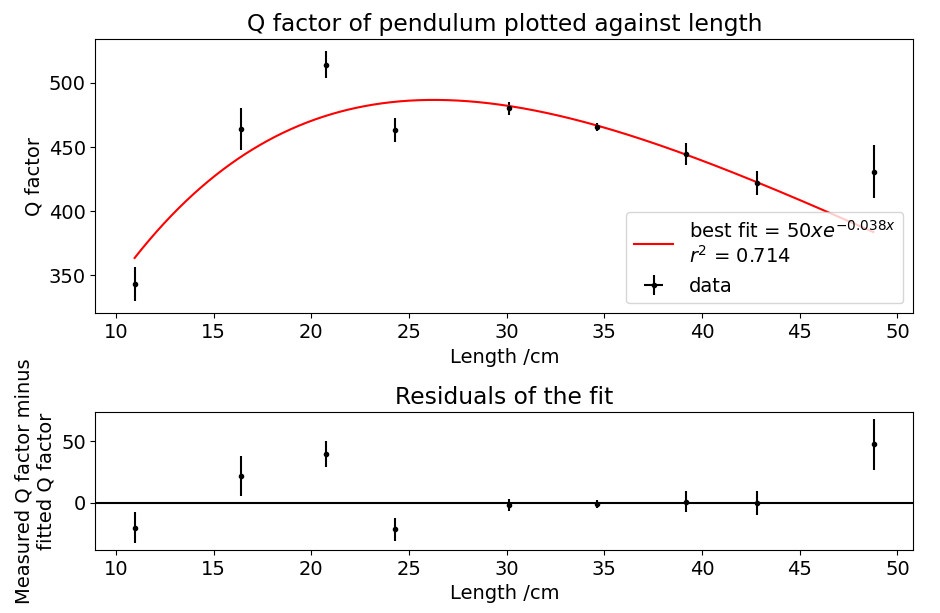
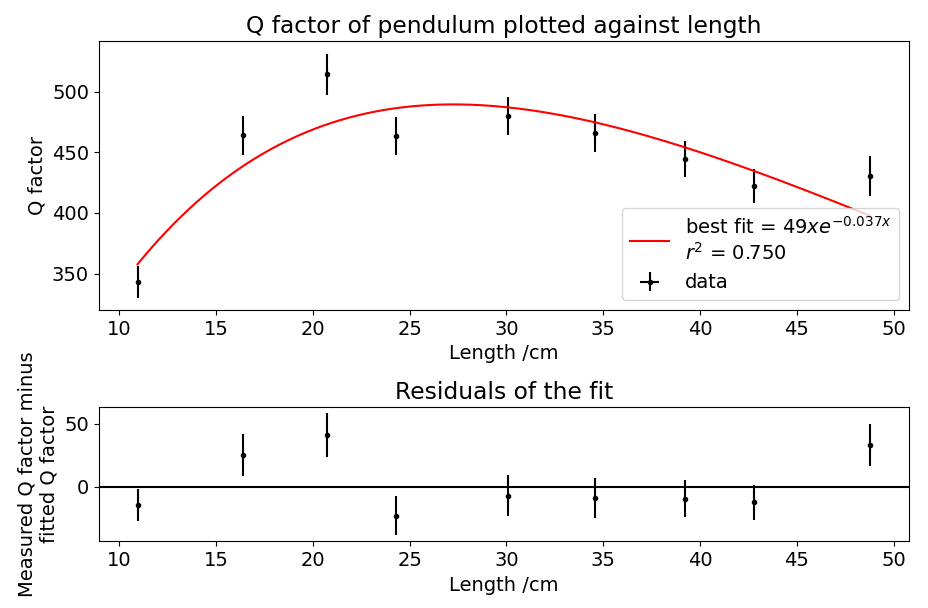
finished up to 4.1

diff --git a/report/lab.tex b/report/lab.tex
@@ -111,7 +111,7 @@ This, it can be concluded that the pendulum period depends on amplitude.}
 
 \subsection{Experimental Setup}
 {\color{blue}
-A single-stringed pendulum tends to spin in an elliptical fashion when released. Not only does this violate the way a pendulum was defined in Section \ref{Background}, elliptical orbits may also lead to inaccurate measurements. To correct for this,} a degree of freedom was removed from the pendulum by threading a string through the stainless steel quick link and fastening the 2 strings in 2 locations to form the shape of a ``V''. The pendulum would then swing back and forth in the plane perpendicular to the ``V'' {\color{blue} where the pivot lies directly above the string. Lego pieces were used to prevent the risk of the string slipping under the tape and a protractor was taped directly above the weight. Extra caution was taken to ensure that the center of the protractor aligned with the 2 intersection points between the string and the legos. Shown below is a side and front view of the new setup:}
+A single-stringed pendulum tends to spin in an elliptical fashion when released. Not only does this violate the way a pendulum was defined in Section \ref{Background}, elliptical orbits may also lead to inaccurate measurements. To correct for this,} a degree of freedom was removed from the pendulum by threading a string through the stainless steel quick link and fastening the 2 strings in 2 locations to form the shape of a ``V''. The pendulum would then swing back and forth in the plane perpendicular to the ``V'' {\color{blue} where the pivot lies directly above the string. Lego pieces were used to prevent the risk of the string slipping under the tape and a protractor was taped directly above the weight. Extra caution was taken to ensure that the center of the protractor aligned with the 2 intersection points between the string and the legos, which lined up with the camera lens. Shown below is a side and front view of the new setup:}
 \begin{figure}[!hptb]
     \centering
     \begin{subfigure}{0.49\textwidth}
@@ -123,37 +123,15 @@ A single-stringed pendulum tends to spin in an elliptical fashion when released.
         \centering
         \includegraphics[width=\textwidth]{../figures/exp_setup3_front.png}
     \end{subfigure}
-    \caption{\centering Improved version of the pendulum used to determine Q factor. Note: this is actually version 3 of the pendulum. Issues that arose with version 2 will be discussed later in this section.}
+    \caption{\centering Improved version of the pendulum used to determine Q factor. Note: this is actually version 3 of the pendulum. Issues that arose with version 2 will be discussed later in this section. Version 2 was also double-stringed}
     \label{fig:figure 3}
 \end{figure}
 \newpage
 
 \subsection{Data}
 {\color{blue}
-is still referring to old lab data
-- version 2 of the pendulum was released from a large angle, and it was deconstructed a long time ago, no access to it.
-- version 3 of the pendulum (figure x) was used for
-- mention uncertainty of angle due to tracker, and include an image
-- the first version of this graph was generatred with an initial release angle of 60 degrees, but that doens't work, as shown earlier that the period depends on the release angle, which also implies that the period is not constant as the pendulum dampens, which creates a contradiction with Eq x.
-
-- after observing results of lab 1,  the new and improved version is generated with a initial release angle of about 20 degrees, makes sure that the period stays constant, that was the theoretical model holds
-
-- uncertainy now is 1/30 where 30 represents the frame rate of the videos.
-
-- the length of the video was divided into around 15-20 equal intervals, and a few frames were advanced or retraced using tracker to determine the closes "peak"  - this is how I recorded the data
-
-also mention the 20 second increments that were used because the full video was recorded (this was mentioned in section 6 or smth, move that here)
-
-- how I used tracker to determine a maximum and minimum angle
-
-
-
+The Q factor can be determined by plotting the amplitude-time graph, as shown below:
 }
-
-
-Due to the double-string contraption, the camera must be positioned in a place where the chance of capturing both strings in the same frame is minimized.
-
-A protractor was not included in the experimental setup this time because Tracker \cite{tracker} was used to measure the angles. First, data was collected such that the maximum amplitude of the pendulum could be plotted against time:
 
 \begin{figure}[!hptb]
     \centering
@@ -162,14 +140,36 @@ A protractor was not included in the experimental setup this time because Tracke
     \label{fig:figure 4}
 \end{figure}
 
-The uncertainty for time was taken to be $1/f$ where $f$ represents the frame rate of the video imported into Tracker, namely $120\,\text{fps}$. The uncertainty for angle was calculated this time for each individual maximum by taking half the range of the sweeping area that the string made in Tracker due to video blur.
+{\color{blue}
+The pendulum was released from an angle of approximately $20^\circ$ to ensure the period stays constant as it is oscillating. The first version of this graph was generated with an initial release angle of 60 degrees, which resulted the period to decrease with time, producing an inaccurate Q factor. This pendulum (version 2) has since been deconstructed.
 
+To calculate the amplitudes, the length of the video was first divided into 15\,-\,20 equal intervals. For every interval, a few frames were advanced or reversed until the closest maximum amplitude could be determined.
+
+\newpage
+
+The uncertainty for each angle was measured in Tracker \cite{tracker} at the frame where $\theta$ reached a maximum. Due the double-stringed setup, two strings will appear in the frame. The angle was taken to be the midpoint of the region that the strings formed and the uncertainty half of the total angle of the region. An image of angle calculation is shown below:
+
+\begin{figure}[!hptb]
+    \centering
+    \includegraphics[width=\textwidth]{../figures/tracker.png}
+    \caption{\centering Angle determination in Tracker. The red and blue diamonds represents the upper and lower bound of the angle, represented in xy coordinates relative to the pink axes, which can be converted to angles.}
+    \label{fig:figure5}
+\end{figure}
+}
+
+The uncertainty for time was taken to be 1/30 where 30 represents the frame rate (fps) of the video.
 
 \subsection{Analysis}
+{\color{blue}
+The best fit equation in Figure \ref{fig:figure 4} is modelled by Equation \ref{eq:amplitude-function}. The uncertainty for $\theta_0 = 0.004$ and $\tau = 2$. Given Equation \ref{eq:q-factor-formula}, $T = 1.11 \pm 0.03$ for this pendulum length and $\tau = 170$, the Q factor is calculated to be $480 \pm 5$ taking on the higher percent uncertainty of $T$ and $\tau$.
+
+A
+
+}
+
 
 {\color{blue}
 
-- remember that q factor should be calculated by counting
 
 - alos mention that when the amplitude decays to some value, the actual new amplitude may not correspond to a peak, but some angle of pendulum swing in between the peak
 
@@ -222,11 +222,11 @@ Plotting period against length reveals a trend that looks like a square root fun
 \begin{figure}[!hptb]
     \centering
     \includegraphics[width=\textwidth]{../figures/period_vs_length.png}
-    \caption{Graph of pendulum period plotted against pendulum length}
+    \caption{\centering Graph of pendulum period plotted against pendulum length}
     \label{fig:figure 6}
 \end{figure}
 
-a linear log-log plot of figure x can be shown to reinforce the idea that Equation x holds. I.e.
+this goes into analysus - a linear log-log plot of figure x can be shown to reinforce the idea that Equation x holds. I.e.
 
 given the equation x, taking log on both sides results in <> and then the slope of the linear plot would be equal to n
 
@@ -253,7 +253,7 @@ The following graph was generated for the Q factor:
 \begin{figure}[!hptb]
     \centering
     \includegraphics[width=\textwidth]{../figures/qfactor_vs_length.png}
-    \caption{Graph of Q factor plotted against pendulum length}
+    \caption{\centering Graph of Q factor plotted against pendulum length}
     \label{fig:figure 7}
 \end{figure}
 

diff --git a/plotting/fit_qfactor.py b/plotting/fit_qfactor.py
@@ -142,7 +142,7 @@ def main():
 
     rsq = r2_score(ydata, [crit_damped(i, a, b) for i in xdata])
 
-    ax1.plot(xs, curve, label=f"best fit = $50xe^{{-0.038x}}$\n$r^2$ = {rsq:.3f}", color="red")
+    ax1.plot(xs, curve, label=f"best fit = $49xe^{{-0.037x}}$\n$r^2$ = {rsq:.3f}", color="red")
     # Plot the best fit curve on top of the data points as a line.
     # NOTE: you may want to change the value of label to something better!!
 

diff --git a/plotting/qfactor_generation.py b/plotting/qfactor_generation.py
@@ -83,7 +83,7 @@ for i in range(1, 10):
         per_u_a = u_a/a
         per_u_tau = u_tau/tau
         Q = np.pi*tau/T
-        print("Q factor:", Q, "+/-", max(per_u_a, per_u_tau)*Q)
+        print("Q factor:", Q, "+/-", max(1/30, per_u_tau)*Q)
         print()
 
         residual = ydata - my_func(xdata, *popt)

diff --git a/plotting/fit_amplitude.py b/plotting/fit_amplitude.py
@@ -159,7 +159,7 @@ def main():
     per_u_a = u_a/a
     per_u_tau = u_tau/tau
     Q = np.pi*tau/T
-    print("Q factor:", Q, "+/-", max(per_u_a, per_u_tau)*Q)
+    print("Q factor:", Q, "+/-", max(1/30, per_u_tau)*Q)
 
     # print("T:", T, "+/-", u_T)
     # print("phi:", phi, "+/-", u_phi)
